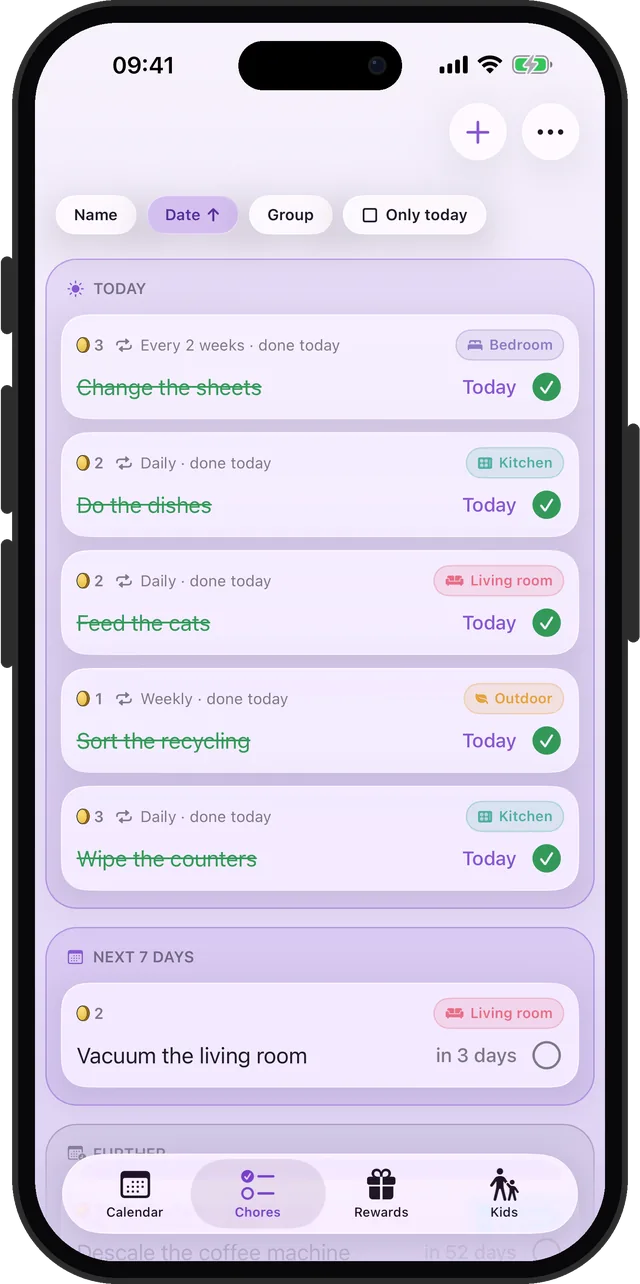
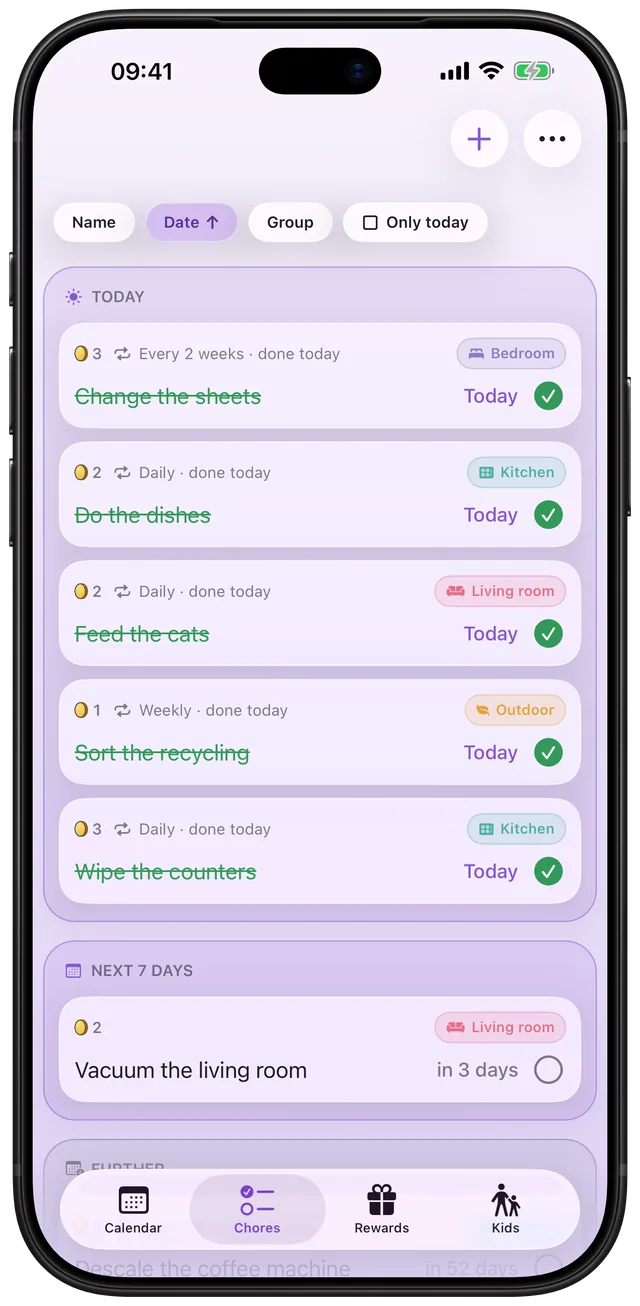
App shots copied from each app site, now in Apple's bezel; sync_shots.py records the sources

diff --git a/index.html b/index.html
@@ -287,7 +287,7 @@
             <section class="stats-wrap" aria-label="App totals">
                 <div class="stats">
                     <div><strong>4,300+</strong><span>downloads</span></div>
-                    <div><strong>67</strong><span>App Store ratings</span></div>
+                    <div><strong>69</strong><span>App Store ratings</span></div>
                     <div><strong>4.6<span class="star" aria-hidden="true">★</span></strong><span>average rating</span></div>
                 </div>
                 <p class="stats-note">Across all my apps, as of October 2026.</p>
@@ -307,8 +307,8 @@
                         </div>
                     </div>
                     <div class="shots">
-                    <img src="/assets/apps/alarm-shot-1.webp" onerror="this.onerror=null;this.src='/assets/apps/alarm-shot-1.png'" alt="Alarm Clock Planner alarm list" width="640" height="1284">
-                    <img src="/assets/apps/alarm-shot-2.webp" onerror="this.onerror=null;this.src='/assets/apps/alarm-shot-2.png'" alt="Alarm Clock Planner calendar view" width="640" height="1284">
+                    <img src="/assets/apps/alarm-shot-1.webp" onerror="this.onerror=null;this.src='/assets/apps/alarm-shot-1.png'" alt="Alarm Clock Planner alarm list" width="640" height="1306">
+                    <img src="/assets/apps/alarm-shot-2.webp" onerror="this.onerror=null;this.src='/assets/apps/alarm-shot-2.png'" alt="Alarm Clock Planner calendar view" width="640" height="1306">
                     </div>
                 </article>
             </section>
@@ -321,7 +321,7 @@
                         <p class="tagline">A family chore chart where every chore comes back when it&#x27;s due.</p>
                         <p class="blurb">Daily dishes and the oven every three months share one list. A missed chore carries over as one row, and kids earn coins for rewards you pick.</p>
                         <p class="why"><span>Why I made it</span>I wanted an easier way to run our family chores, and to motivate my daughter with rewards so she earns her screen time and toys.</p>
-                        <div class="shot"><img src="/assets/apps/choru-shot.webp" onerror="this.onerror=null;this.src='/assets/apps/choru-shot.png'" alt="Choru chore list" width="640" height="1284" loading="lazy"><img src="/assets/apps/choru-shot-2.webp" onerror="this.onerror=null;this.src='/assets/apps/choru-shot-2.png'" alt="Choru rewards bought with coins" width="640" height="1284" loading="lazy"></div>
+                        <div class="shot"><img src="/assets/apps/choru-shot.webp" onerror="this.onerror=null;this.src='/assets/apps/choru-shot.png'" alt="Choru chore list" width="640" height="1306" loading="lazy"><img src="/assets/apps/choru-shot-2.webp" onerror="this.onerror=null;this.src='/assets/apps/choru-shot-2.png'" alt="Choru rewards bought with coins" width="640" height="1306" loading="lazy"></div>
                         <div class="card-actions"><a class="get" href="https://apps.apple.com/app/apple-store/id6812494775?pt=2187944&amp;ct=OzolsDev_Home&amp;mt=8" data-ph="app_card_click" data-app="choru" data-target="store" aria-label="Download Choru on the App Store"><svg class="get-glyph" viewBox="0 0 24 24" aria-hidden="true"><path d="M12 3.5v10.5m0 0-4.25-4.25M12 14l4.25-4.25M4.75 15.5v2.25a2.75 2.75 0 0 0 2.75 2.75h9a2.75 2.75 0 0 0 2.75-2.75V15.5"/></svg>Download</a><a class="read-more" href="https://getchoru.com" data-ph="app_card_click" data-app="choru" data-target="site" aria-label="Read more about Choru">Read more</a></div>
                     </article>
                     <article class="card has-ribbon"><span class="ribbon ribbon-new">NEW</span>
@@ -329,7 +329,7 @@
                         <p class="tagline">Workouts, reading and meditation become XP. Level up in real life.</p>
                         <p class="blurb">Six stats, each from level 1 to 60. Finish quests, some of them hidden, and stack buffs for sleep, water and streaks. Skip a stat and it loses XP.</p>
                         <p class="why"><span>Why I made it</span>I wanted to work out more and turn life into an RPG. I&#x27;m a looooong way from level 60, and that&#x27;s the point: level 60 runs marathons.</p>
-                        <div class="shot"><img src="/assets/apps/charactersheet-shot.webp" onerror="this.onerror=null;this.src='/assets/apps/charactersheet-shot.png'" alt="CharacterSheet character stats" width="640" height="1284" loading="lazy"><img src="/assets/apps/charactersheet-shot-2.webp" onerror="this.onerror=null;this.src='/assets/apps/charactersheet-shot-2.png'" alt="CharacterSheet quest board" width="640" height="1284" loading="lazy"></div>
+                        <div class="shot"><img src="/assets/apps/charactersheet-shot.webp" onerror="this.onerror=null;this.src='/assets/apps/charactersheet-shot.png'" alt="CharacterSheet character stats" width="640" height="1306" loading="lazy"><img src="/assets/apps/charactersheet-shot-2.webp" onerror="this.onerror=null;this.src='/assets/apps/charactersheet-shot-2.png'" alt="CharacterSheet quest board" width="640" height="1306" loading="lazy"></div>
                         <div class="card-actions"><a class="get" href="https://apps.apple.com/app/apple-store/id6821288178?pt=2187944&amp;ct=OzolsDev_Home&amp;mt=8" data-ph="app_card_click" data-app="charactersheet" data-target="store" aria-label="Download CharacterSheet on the App Store"><svg class="get-glyph" viewBox="0 0 24 24" aria-hidden="true"><path d="M12 3.5v10.5m0 0-4.25-4.25M12 14l4.25-4.25M4.75 15.5v2.25a2.75 2.75 0 0 0 2.75 2.75h9a2.75 2.75 0 0 0 2.75-2.75V15.5"/></svg>Download</a><a class="read-more" href="https://getcharactersheet.com" data-ph="app_card_click" data-app="charactersheet" data-target="site" aria-label="Read more about CharacterSheet">Read more</a></div>
                     </article>
                     <article class="card">
@@ -337,7 +337,7 @@
                         <p class="tagline">Will it fit? Draw your rooms to scale and know before you carry anything.</p>
                         <p class="blurb">Type a wall&#x27;s length and it stays exact. 37 furniture pieces at real sizes turn red when they collide, and doors show the space they need to open.</p>
                         <p class="why"><span>Why I made it</span>We rearrange our apartment every so often or think about an upgrade, and I needed to know if that IKEA wardrobe would actually fit.</p>
-                        <div class="shot"><img src="/assets/apps/scooch-shot.webp" onerror="this.onerror=null;this.src='/assets/apps/scooch-shot.png'" alt="Scooch floor plan with furniture" width="640" height="1284" loading="lazy"><img src="/assets/apps/scooch-shot-2.webp" onerror="this.onerror=null;this.src='/assets/apps/scooch-shot-2.png'" alt="Scooch showing a sofa that does not fit in red" width="640" height="1284" loading="lazy"></div>
+                        <div class="shot"><img src="/assets/apps/scooch-shot.webp" onerror="this.onerror=null;this.src='/assets/apps/scooch-shot.png'" alt="Scooch floor plan with furniture" width="640" height="1306" loading="lazy"><img src="/assets/apps/scooch-shot-2.webp" onerror="this.onerror=null;this.src='/assets/apps/scooch-shot-2.png'" alt="Scooch showing a sofa that does not fit in red" width="640" height="1306" loading="lazy"></div>
                         <div class="card-actions"><a class="get" href="https://apps.apple.com/app/apple-store/id6799503727?pt=2187944&amp;ct=OzolsDev_Home&amp;mt=8" data-ph="app_card_click" data-app="scooch" data-target="store" aria-label="Download Scooch on the App Store"><svg class="get-glyph" viewBox="0 0 24 24" aria-hidden="true"><path d="M12 3.5v10.5m0 0-4.25-4.25M12 14l4.25-4.25M4.75 15.5v2.25a2.75 2.75 0 0 0 2.75 2.75h9a2.75 2.75 0 0 0 2.75-2.75V15.5"/></svg>Download</a><a class="read-more" href="https://getscooch.com" data-ph="app_card_click" data-app="scooch" data-target="site" aria-label="Read more about Scooch">Read more</a></div>
                     </article>
                     <article class="card">
@@ -345,7 +345,7 @@
                         <p class="tagline">Stop the alarm and your morning starts with a focus timer.</p>
                         <p class="blurb">The alarm rings even on Silent. Stopping it opens a short focus session on your Lock Screen, and every finished morning grows your streak.</p>
                         <p class="why"><span>Why I made it</span>I wanted to get up early and build apps before work and family life start. Rise is the alarm that gets me out of bed to do it.</p>
-                        <div class="shot"><img src="/assets/apps/rise-shot.webp" onerror="this.onerror=null;this.src='/assets/apps/rise-shot.png'" alt="Rise alarm ringing" width="640" height="1284" loading="lazy"><img src="/assets/apps/rise-shot-2.webp" onerror="this.onerror=null;this.src='/assets/apps/rise-shot-2.png'" alt="Rise focus timer counting down" width="640" height="1284" loading="lazy"></div>
+                        <div class="shot"><img src="/assets/apps/rise-shot.webp" onerror="this.onerror=null;this.src='/assets/apps/rise-shot.png'" alt="Rise alarm ringing" width="640" height="1306" loading="lazy"><img src="/assets/apps/rise-shot-2.webp" onerror="this.onerror=null;this.src='/assets/apps/rise-shot-2.png'" alt="Rise focus timer counting down" width="640" height="1306" loading="lazy"></div>
                         <div class="card-actions"><a class="get" href="https://apps.apple.com/app/apple-store/id6760960639?pt=2187944&amp;ct=OzolsDev_Home&amp;mt=8" data-ph="app_card_click" data-app="rise" data-target="store" aria-label="Download Rise on the App Store"><svg class="get-glyph" viewBox="0 0 24 24" aria-hidden="true"><path d="M12 3.5v10.5m0 0-4.25-4.25M12 14l4.25-4.25M4.75 15.5v2.25a2.75 2.75 0 0 0 2.75 2.75h9a2.75 2.75 0 0 0 2.75-2.75V15.5"/></svg>Download</a><a class="read-more" href="https://risemorning.app" data-ph="app_card_click" data-app="rise" data-target="site" aria-label="Read more about Rise">Read more</a></div>
                     </article>
                     <article class="card">
@@ -353,7 +353,7 @@
                         <p class="tagline">Reminders for an exact date, early March, or just someday.</p>
                         <p class="blurb">Pick early March, or just someday, when that is all you know. See your whole year at a glance, with eight widgets and a one-time unlock.</p>
                         <p class="why"><span>Why I made it</span>My first app. I needed an easy way to track vaccines due years from now, and things like calling the dentist in two months.</p>
-                        <div class="shot"><img src="/assets/apps/remi-shot.webp" onerror="this.onerror=null;this.src='/assets/apps/remi-shot.png'" alt="Remi reminder list" width="640" height="1284" loading="lazy"><img src="/assets/apps/remi-shot-2.webp" onerror="this.onerror=null;this.src='/assets/apps/remi-shot-2.png'" alt="Remi year view" width="640" height="1284" loading="lazy"></div>
+                        <div class="shot"><img src="/assets/apps/remi-shot.webp" onerror="this.onerror=null;this.src='/assets/apps/remi-shot.png'" alt="Remi reminder list" width="640" height="1306" loading="lazy"><img src="/assets/apps/remi-shot-2.webp" onerror="this.onerror=null;this.src='/assets/apps/remi-shot-2.png'" alt="Remi year view" width="640" height="1306" loading="lazy"></div>
                         <div class="card-actions"><a class="get" href="https://apps.apple.com/app/apple-store/id6759194352?pt=2187944&amp;ct=OzolsDev_Home&amp;mt=8" data-ph="app_card_click" data-app="remi" data-target="store" aria-label="Download Remi on the App Store"><svg class="get-glyph" viewBox="0 0 24 24" aria-hidden="true"><path d="M12 3.5v10.5m0 0-4.25-4.25M12 14l4.25-4.25M4.75 15.5v2.25a2.75 2.75 0 0 0 2.75 2.75h9a2.75 2.75 0 0 0 2.75-2.75V15.5"/></svg>Download</a><a class="read-more" href="https://remireminder.app" data-ph="app_card_click" data-app="remi" data-target="site" aria-label="Read more about Remi">Read more</a></div>
                     </article>
                 </div>

diff --git a/_gen/sync_shots.py b/_gen/sync_shots.py
@@ -1,0 +1,28 @@
+#!/usr/bin/env python3
+"""Copy each app's homepage screenshots from its own website repo, so ozols.dev shows the same framed
+shots (Apple's bezel since 2026-11-01). Run after an app site re-frames its images, then build.py.
+
+    python3 _gen/sync_shots.py
+"""
+import os
+import shutil
+
+X = os.path.expanduser("~/Documents/Xcode")
+OUT = os.path.join(os.path.dirname(os.path.dirname(os.path.abspath(__file__))), "assets", "apps")
+SHOTS = {  # ozols.dev file -> source in the app's site repo (matched pixel for pixel on 2026-11-01)
+    "alarm-shot-1.webp": "AlarmPlanner/website/assets/shot-list.webp",
+    "alarm-shot-2.webp": "AlarmPlanner/website/assets/shot-calendar.webp",
+    "charactersheet-shot.webp": "CharacterSheet/CharacterSheet/website/assets/shot-home.webp",
+    "charactersheet-shot-2.webp": "CharacterSheet/CharacterSheet/website/assets/shot-quests.webp",
+    "choru-shot.webp": "Choru/website/assets/shot-chores.webp",
+    "choru-shot-2.webp": "Choru/website/assets/shot-rewards.webp",
+    "remi-shot.webp": "Remi Reminders/RemiDomain/assets/guides/list.webp",
+    "remi-shot-2.webp": "Remi Reminders/RemiDomain/assets/guides/yearly-orange.webp",
+    "rise-shot.webp": "Rise Alarm & Focus/MorningRoutine/Domain/assets/shot-ringing.webp",
+    "rise-shot-2.webp": "Rise Alarm & Focus/MorningRoutine/Domain/assets/shot-timer.webp",
+    "scooch-shot.webp": "Scooch/website/assets/shot-plan.webp",
+    "scooch-shot-2.webp": "Scooch/website/assets/shot-clash.webp",
+}
+for dst, src in SHOTS.items():
+    shutil.copyfile(os.path.join(X, src), os.path.join(OUT, dst))
+    print(f"{dst:28s} <- {src}")

diff --git a/_gen/build.py b/_gen/build.py
@@ -75,7 +75,7 @@ def icon(a, size, lazy=True):
 
 def shot(a, i, lazy=True):
     return (f'<img src="/assets/apps/{a["shots"][i]}" alt="{esc(a["shot_alt"][i])}" '
-            f'width="640" height="1284"' + (' loading="lazy">' if lazy else '>'))
+            f'width="640" height="1306"' + (' loading="lazy">' if lazy else '>'))
 
 
 def read_more(a):
